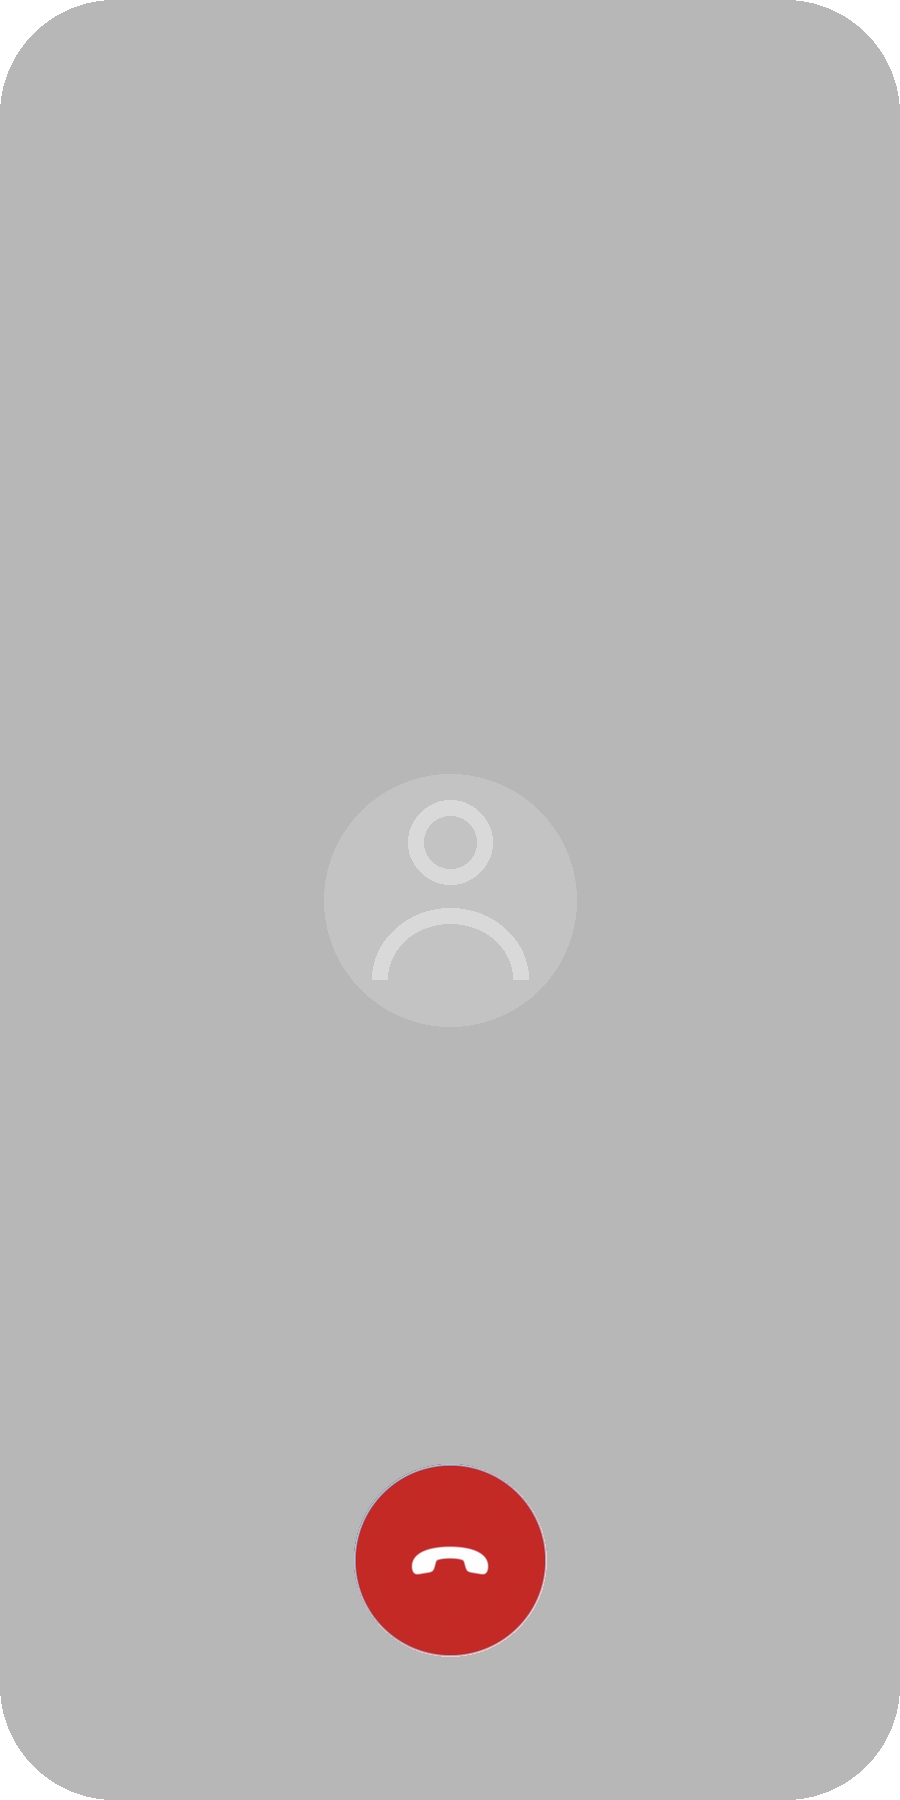
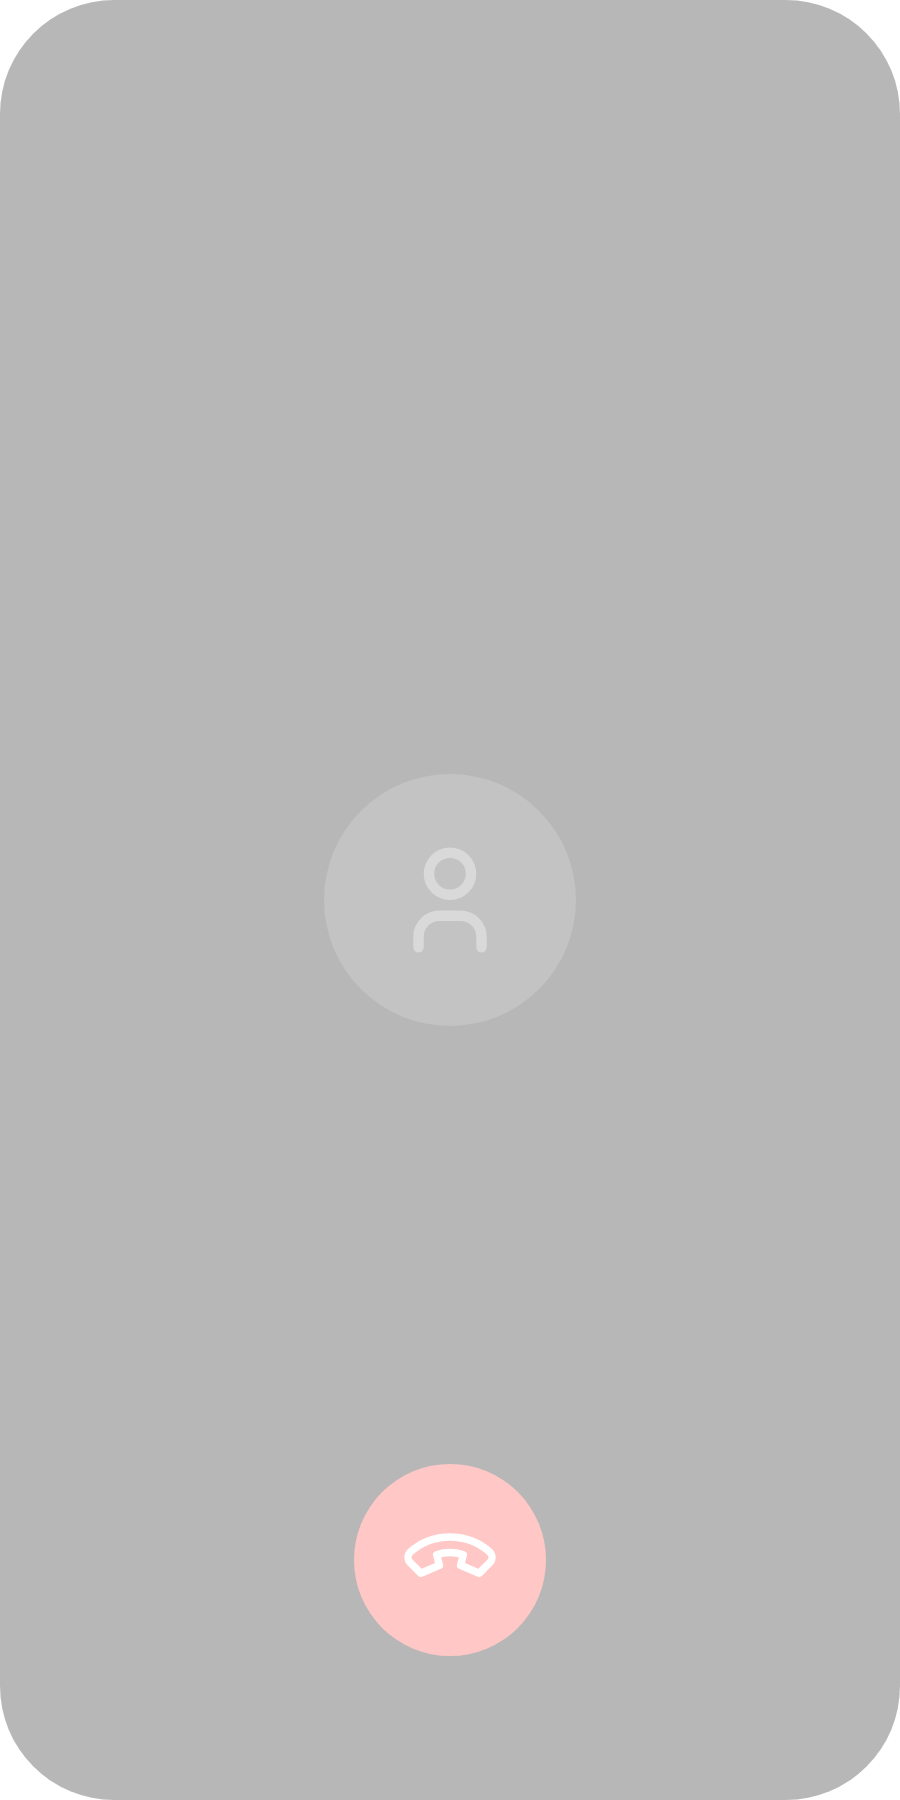
feat(FRONTEND): consult 화면 SSOT 정렬 — 컴플라이언스 카드 재구현 + STT 배경 교체
- CompliancePanel engineMode를 SSOT #card-strat .cmp 마크업으로 재구현
  (가안 발화 → 규제 2×2 체크 → 최종 발화 diff). 위반 substring .risk 강조.
- SpeechAnalysis/CompliancePanel engineMode wrapper를 .card-scroll로 정렬,
  role="region" 유지해 카드 슬롯 접근성 계약(layout.test) 보존.
- JourneyMap svg aria-label을 SSOT("상담 경로 재탐색 항법 맵")로 정렬.
- STT 패널 배경 이미지 교체(public/phone_screen.png) 마무리.
- layout.tsx wrap min-height 제거(SSOT), page.tsx 카드③ 중복 래퍼 제거.

131 tests pass, tsc 0 errors.

Changed region(s): [[0.3733, 0.8089, 0.6222, 0.9333]]

diff --git a/frontend/src/components/consult/CompliancePanel.tsx b/frontend/src/components/consult/CompliancePanel.tsx
@@ -162,17 +162,125 @@ export function CompliancePanel(props: CompliancePanelProps) {
   return <LiveCompliancePanel {...props} />;
 }
 
-// 엔진 모드: consultStore.compliance를 그대로 렌더.
+// 체크 SVG (SSOT CHK_SVG, line 1344) — .cmp-chk .cbx 안 체크 표시.
+function ChkSvg() {
+  return (
+    <svg viewBox="0 0 16 16" fill="none" aria-hidden="true">
+      <path d="M3.5 8.5l3 3 6-7" stroke="#fff" strokeWidth={2.4} strokeLinecap="round" strokeLinejoin="round" />
+    </svg>
+  );
+}
+
+// 가안 발화: violations substring을 .risk(빨강 취소선)로 감싼다 (SSOT .cmp-draft .risk).
+function renderCmpDraft(draft: string, violations: string[]) {
+  if (violations.length === 0) return draft;
+  const sorted = [...violations].sort((a, b) => b.length - a.length);
+  let parts: Array<{ text: string; risk: boolean }> = [{ text: draft, risk: false }];
+  for (const v of sorted) {
+    const next: Array<{ text: string; risk: boolean }> = [];
+    for (const part of parts) {
+      if (part.risk || !part.text.includes(v)) { next.push(part); continue; }
+      const idx = part.text.indexOf(v);
+      if (part.text.slice(0, idx)) next.push({ text: part.text.slice(0, idx), risk: false });
+      next.push({ text: v, risk: true });
+      if (part.text.slice(idx + v.length)) next.push({ text: part.text.slice(idx + v.length), risk: false });
+    }
+    parts = next;
+  }
+  return parts.map((p, i) =>
+    p.risk ? <span key={i} className="risk" data-testid="cmp-violation">{p.text}</span> : <span key={i}>{p.text}</span>,
+  );
+}
+
+// 엔진 모드: consultStore.compliance를 SSOT 카드③ 마크업(.cmp)으로 렌더.
 function EngineCompliancePanel() {
   const state = useConsultStore((s) => s.compliance);
   if (!state) {
     return (
-      <section aria-label="컴플라이언스 체크">
+      <div className="card-scroll" role="region" aria-label="컴플라이언스 체크">
         <p className="text-xs text-ink-faint">상담 시작 대기</p>
-      </section>
+      </div>
     );
   }
-  return <ComplianceView state={state} />;
+  return <EngineComplianceView state={state} />;
+}
+
+// SSOT docs/consult_redesigned-3.html #card-strat .cmp (lines 1111–1118):
+//   가안 발화(.cmp-draft) → 컴플라이언스 규제 검토(.cmp-checks 2×2) → 최종 발화(.cmp-final diff)
+function EngineComplianceView({ state }: { state: ComplianceState }) {
+  const { phase, draft, violations, checks, final } = state;
+  const showFinal = (phase === 'redrafting' || phase === 'approved') && final.length > 0;
+
+  return (
+    <div
+      className="card-scroll"
+      role="region"
+      aria-label="컴플라이언스 체크"
+      data-testid="compliance-panel"
+      data-phase={phase}
+    >
+      <div className="cmp">
+        {/* 가안 발화 */}
+        <div className="cseclbl"><span>가안 발화</span><span className="ln" /></div>
+        <div className="cmp-utter cmp-draft" id="cmpDraft" data-testid="cmp-draft">
+          {renderCmpDraft(draft, violations)}
+        </div>
+
+        {/* 컴플라이언스 규제 검토 — 4규제 2×2 */}
+        <div className="cseclbl"><span>컴플라이언스 규제 검토</span><span className="ln" /></div>
+        <div className="cmp-checks" id="cmpChecks">
+          {checks.map((c, idx) => {
+            const reviewed = c.flagged !== null && c.flagged !== undefined;
+            const fixed = c.flagged === true;
+            return (
+              <div
+                className={clsx('cmp-chk', reviewed && 'ok', reviewed && fixed && 'fix')}
+                key={`${c.law}-${idx}`}
+                data-i={idx}
+                data-testid="cmp-check"
+                data-flagged={reviewed ? String(fixed) : 'pending'}
+              >
+                <span className="cbx"><span className="cn">{idx + 1}</span><ChkSvg /></span>
+                <span className="claw">{c.law}</span>
+                <span className="cdesc">{c.desc}</span>
+                <span className="cflag" />
+              </div>
+            );
+          })}
+        </div>
+
+        {/* 최종 발화 (수정 = 빨강) */}
+        {showFinal && (
+          <>
+            <div className="cseclbl">
+              <span>최종 발화 (수정 = <span style={{ color: '#D6322E' }}>빨강</span>)</span>
+              <span className="ln" />
+            </div>
+            <div className="cmp-utter cmp-final" id="cmpFinal" data-testid="cmp-final">
+              {final.map((seg, i) => {
+                if (seg.del !== undefined) {
+                  return (
+                    <span className="seg" key={i}>
+                      {seg.del && <del>{seg.del}</del>}
+                      {seg.ins && <ins>{seg.ins}</ins>}
+                    </span>
+                  );
+                }
+                if (seg.ins !== undefined) {
+                  return (
+                    <span className="seg" key={i}>
+                      <ins className={clsx(seg.added && 'add')}>{seg.ins}</ins>
+                    </span>
+                  );
+                }
+                return <span className="seg" key={i}>{seg.text}</span>;
+              })}
+            </div>
+          </>
+        )}
+      </div>
+    </div>
+  );
 }
 
 function LiveCompliancePanel({

diff --git a/frontend/src/app/globals.css b/frontend/src/app/globals.css
@@ -366,6 +366,34 @@
 .dbanner.alert .dbic { background: rgba(255,255,255,.22); }
 @media (prefers-reduced-motion: reduce) { .dnode.on { animation: none; } }
 
+/* ── 카드③ 컴플라이언스 체크 (SSOT 836–885) — 가안 → 4규제 2×2 → 최종 diff ── */
+.cmp { display: flex; flex-direction: column; gap: 7px; }
+.cmp-utter { border-radius: 9px; padding: 6px 8px; font-size: 9.5px; line-height: 1.5; word-break: keep-all; }
+.cmp-draft { background: rgba(255,255,255,.72); border: 1.4px solid #C9D3E8; color: #5b4a48; }
+.cmp-draft .risk { color: #C5302D; font-weight: 700; background: none; text-decoration: line-through; text-decoration-color: rgba(197,48,45,.5); }
+.cmp-checks { display: grid; grid-template-columns: 1fr 1fr; gap: 4px; }
+.cmp-chk { display: flex; flex-wrap: wrap; align-items: center; justify-content: center; gap: 3px 6px; border: 1.4px solid #C9D3E8; border-radius: 8px; text-align: center; background: rgba(255,255,255,.72); padding: 5px 7px; opacity: .4; transition: opacity .3s, border-color .3s, background .3s; }
+.cmp-chk.run { opacity: 1; border-color: #C9D3E8; background: rgba(255,255,255,.72); }
+.cmp-chk.ok { opacity: 1; border-color: #C9D3E8; background: rgba(255,255,255,.72); }
+.cmp-chk .cbx { width: 18px; height: 18px; flex: none; border-radius: 50%; display: grid; place-items: center; font-family: var(--mono); font-size: 9px; font-weight: 700; background: var(--badge-bg); color: var(--badge-ink); transition: all .3s; }
+.cmp-chk.run .cbx { background: #FFE6A8; color: #7a4a00; animation: cpulse 1s ease-in-out infinite; }
+.cmp-chk.ok .cbx { background: #2E9E6E; color: #fff; }
+.cmp-chk .cbx svg { width: 10px; height: 10px; opacity: 0; transform: scale(.4); transition: opacity .25s, transform .25s; }
+.cmp-chk.ok .cbx svg { opacity: 1; transform: scale(1); }
+.cmp-chk.ok .cbx .cn { display: none; }
+.cmp-chk.ok.fix .cbx { background: var(--danger); color: #fff; }
+.cmp-chk.ok.fix .cbx svg { display: none; }
+.cmp-chk.ok.fix .cbx::after { content: "✕"; font-size: 14px; font-weight: 800; line-height: 1; }
+.cmp-chk .claw { font-family: var(--disp); font-size: 10.5px; font-weight: 800; color: var(--ink); flex: none; }
+.cmp-chk.ok .claw { color: #5A3E22; }
+.cmp-chk .cdesc { flex-basis: 100%; font-size: 9px; font-weight: 600; color: #5A6170; line-height: 1.2; word-break: keep-all; text-align: center; }
+.cmp-chk .cflag { display: none; }
+.cmp-final { background: #fff; color: #000; border: 1.5px solid #3551D6; box-shadow: 0 6px 14px -4px rgba(53,81,214,.45), inset 0 2px 0 0 rgba(255,255,255,.7), inset 0 -7px 12px -8px rgba(53,81,214,.3); font-size: 11.5px; line-height: 1.65; padding: 11px 13px; min-height: 64px; }
+.cmp-final del { color: #9aa0ac; text-decoration: line-through; text-decoration-color: #c9b3b2; font-weight: 500; margin-right: 2px; }
+.cmp-final ins { color: #D6322E; font-weight: 700; text-decoration: none; background: none; box-decoration-break: clone; -webkit-box-decoration-break: clone; }
+.cmp-final ins.add::before { content: "＋"; font-size: .78em; font-weight: 800; margin-right: 1px; opacity: .8; }
+.cmp-final .seg { opacity: 0; animation: rise .4s ease forwards; }
+
 /* ── 좌측 STT 트랜스크립트 (SSOT 128–187) ── */
 .jov-title { font-size: 9.5px; font-weight: 800; color: var(--route); letter-spacing: .9px; text-transform: uppercase; margin-bottom: 7px; padding-bottom: 6px; border-bottom: 1.5px solid #E8F0FE; }
 #steps-wrap { display: flex; flex-direction: column; }

diff --git a/frontend/src/components/consult/SpeechAnalysis.tsx b/frontend/src/components/consult/SpeechAnalysis.tsx
@@ -261,8 +261,10 @@ function EngineCard1() {
   const resolved = stratPhase === 'resolved';
 
   return (
-    <section className="flex flex-col gap-2 h-full min-h-0" aria-label="고객발화분석" data-testid="speech-analysis">
-      <div className="cseclbl"><span>발화 분류</span><span className="ln" /></div>
+    // SSOT docs/consult_redesigned-3.html #card-emo .card-scroll (lines 1080–1086):
+    // 발화분류 → bins → solvearrow(▼) → 대표 전략 20 → stratg.
+    <div className="card-scroll" role="region" aria-label="고객발화분석" data-testid="speech-analysis">
+      <div className="cseclbl"><span>발화분류</span><span className="ln" /></div>
 
       {/* orb bins — 감정/니즈/이용가능성 */}
       <div className="bins" id="emoBins">
@@ -283,10 +285,12 @@ function EngineCard1() {
         })}
       </div>
 
-      {/* solveArrow */}
+      {/* solveArrow — SSOT: ▼ 아이콘만 (텍스트 없음) */}
       <div className={clsx('solvearrow', solveArrow && 'on')} id="solveArrow">
-        <span className="dn">▼</span><span>최적 전략 선택</span>
+        <span className="dn">▼</span>
       </div>
+
+      <div className="cseclbl"><span>대표 전략 20</span><span className="ln" /></div>
 
       {/* 전략 그리드 20장 → swiping → resolved */}
       <div
@@ -308,7 +312,7 @@ function EngineCard1() {
           })}
         </div>
       </div>
-    </section>
+    </div>
   );
 }
 

diff --git a/frontend/src/app/layout.tsx b/frontend/src/app/layout.tsx
@@ -17,8 +17,9 @@ export default function RootLayout({
         <link rel="stylesheet" href="https://cdnjs.cloudflare.com/ajax/libs/tabler-icons/3.31.0/iconfont/tabler-icons.min.css" />
       </head>
       <body>
-        {/* SSOT .wrap: display:flex; gap:11px; align-items:stretch */}
-        <div className="flex gap-3 p-[18px_10px] items-stretch min-h-screen">
+        {/* SSOT .wrap: display:flex; gap:11px; align-items:stretch (no min-height —
+            sidebar stretches to content height; body bg is fixed so no short-bg gap) */}
+        <div className="flex gap-3 p-[18px_10px] items-stretch">
           <Sidebar />
           {/* SSOT .content: flex:1; min-width:0 */}
           <div className="flex-1 min-w-0">{children}</div>

diff --git a/frontend/src/app/calls/[id]/page.tsx b/frontend/src/app/calls/[id]/page.tsx
@@ -182,9 +182,7 @@ export default function ConsultCockpitPage({ params }: PageProps) {
                   <span className="card__no font-mono inline-grid place-items-center flex-none" style={CARD_NO_STYLE}>3</span>
                   <span className="card__t font-disp" style={CARD_T_STYLE}>컴플라이언스 체크</span>
                 </div>
-                <div className="card-scroll">
-                  <CompliancePanel callId={callId} engineMode />
-                </div>
+                <CompliancePanel callId={callId} engineMode />
               </div>
             </div>
           </div>

diff --git a/frontend/src/components/consult/JourneyMap.tsx b/frontend/src/components/consult/JourneyMap.tsx
@@ -830,7 +830,7 @@ export const JourneyMap = forwardRef<JourneyMapHandle, JourneyMapProps>(function
         viewBox="25 12 1610 418"
         preserveAspectRatio="xMidYMid meet"
         role="img"
-        aria-label="상담 경로 여정 맵"
+        aria-label="상담 경로 재탐색 항법 맵"
         data-testid="journey-svg"
         style={{ display: 'block', width: '100%', height: '100%' }}
       >